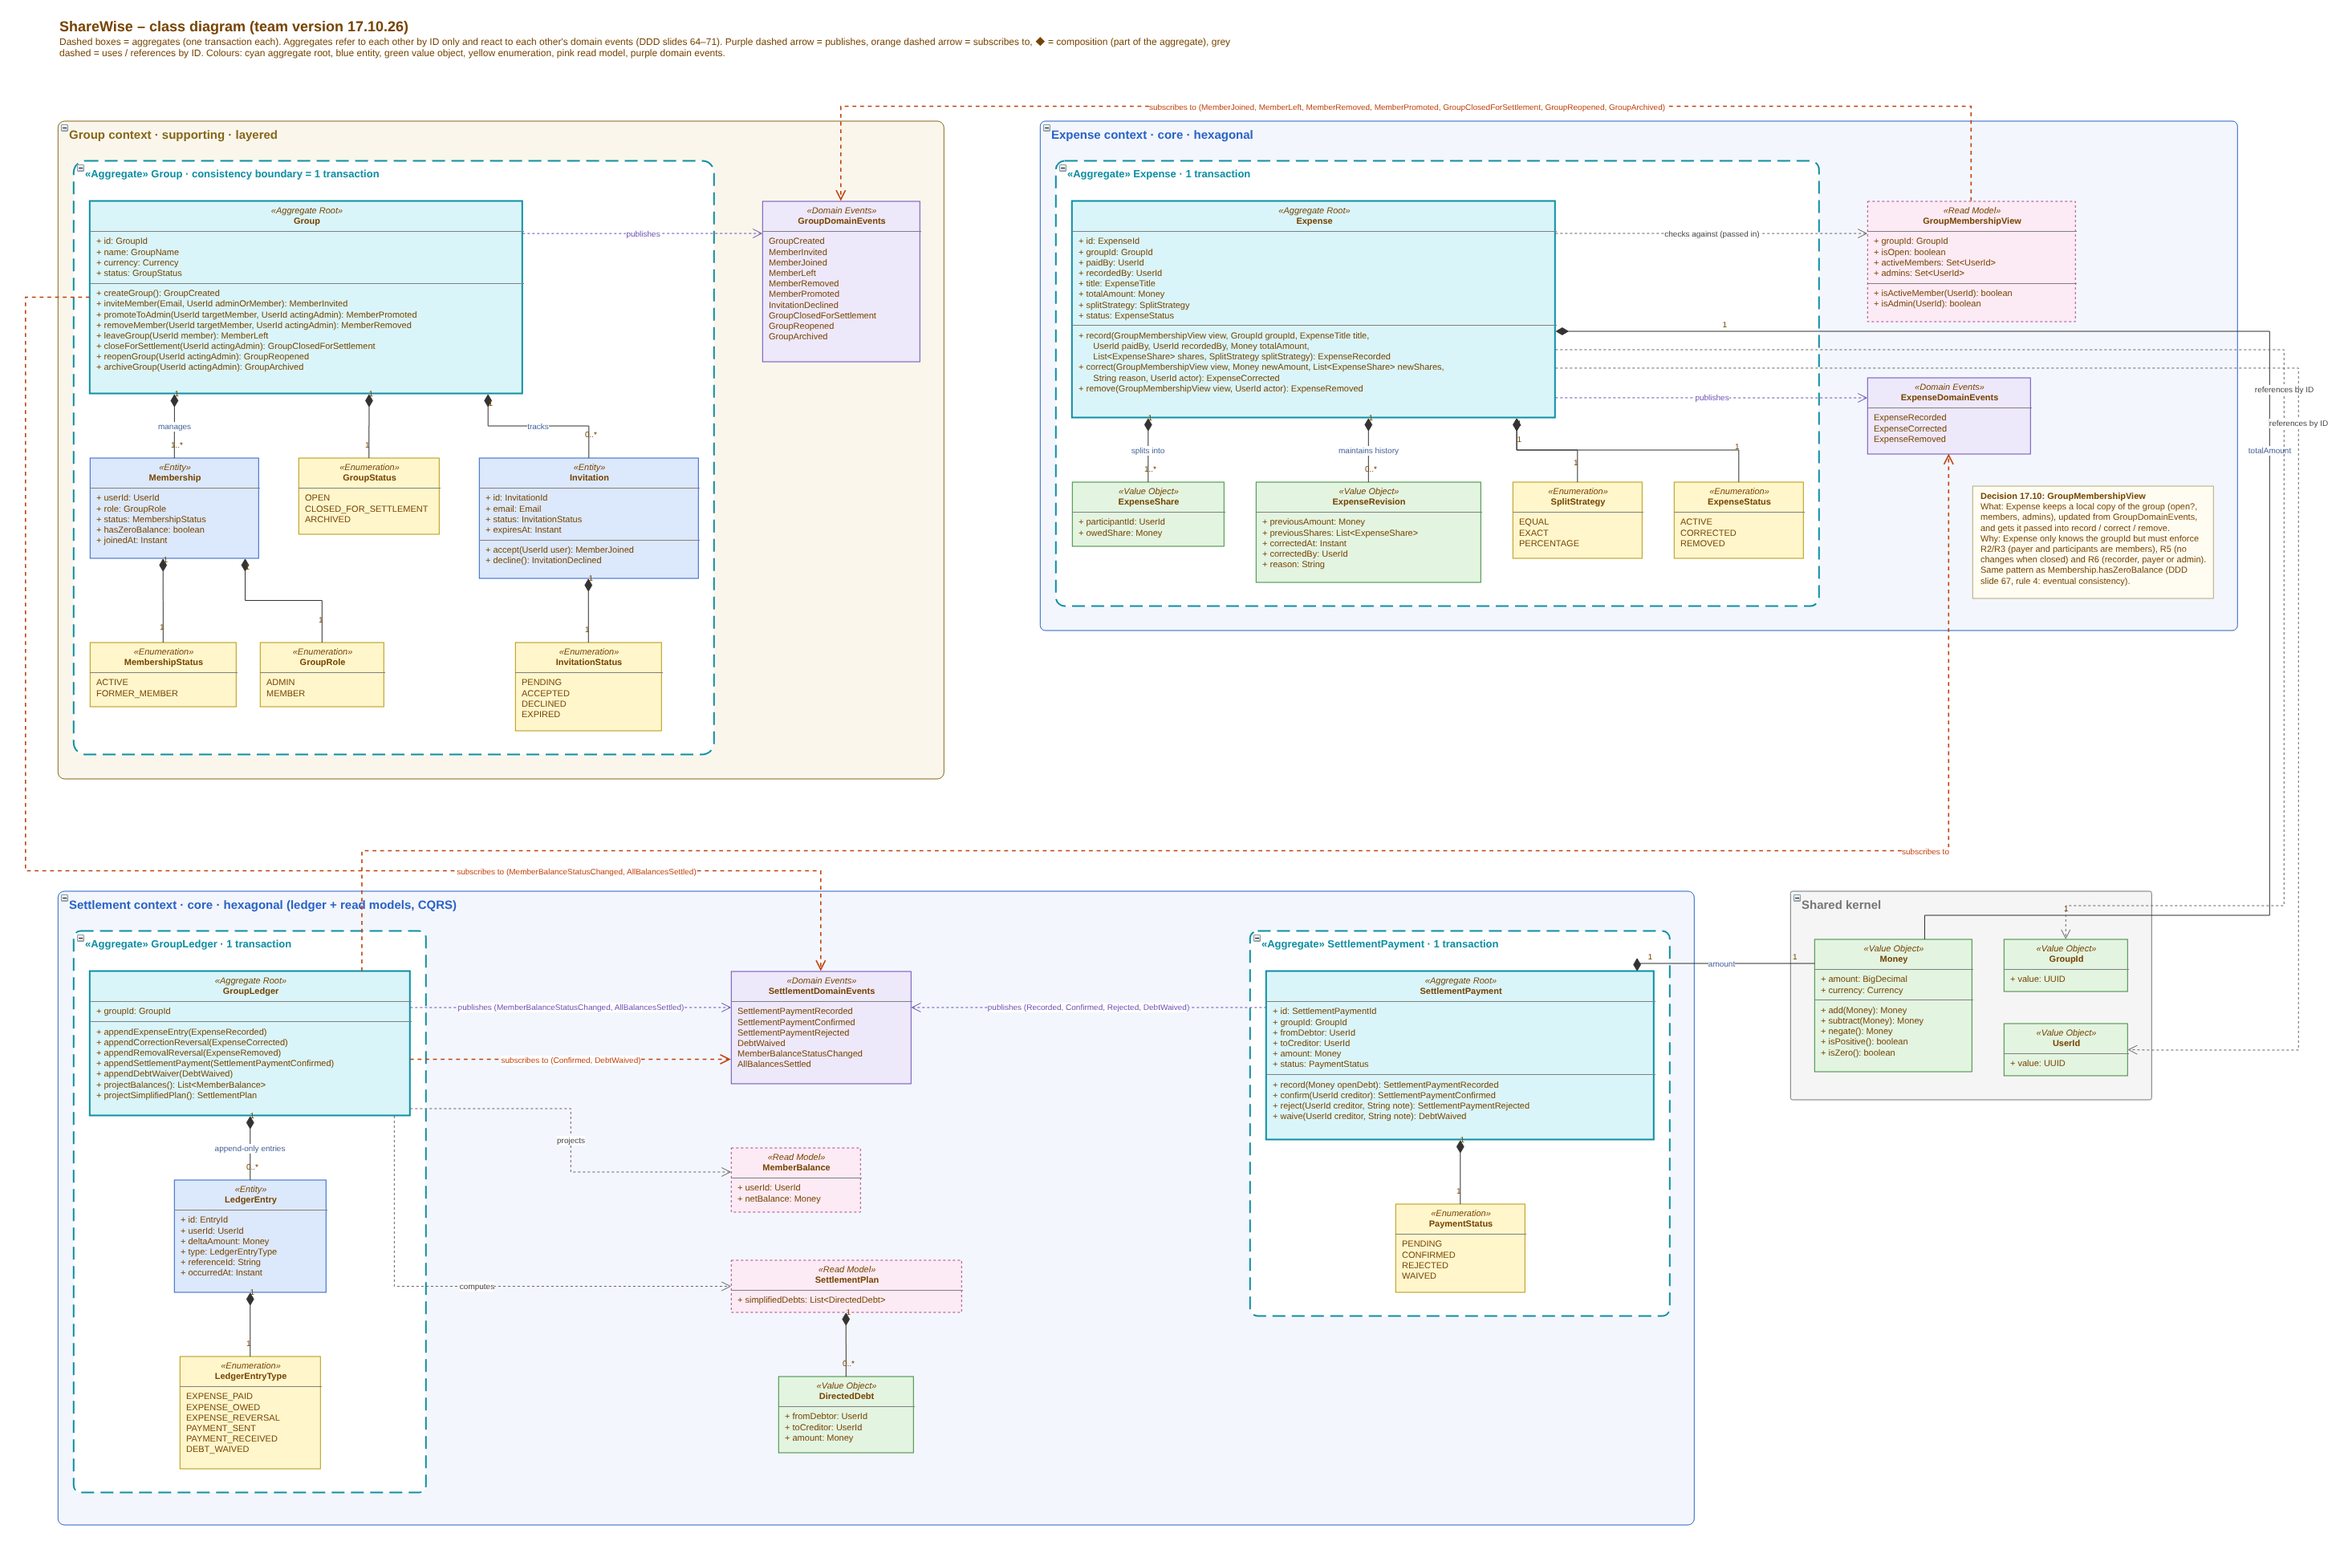
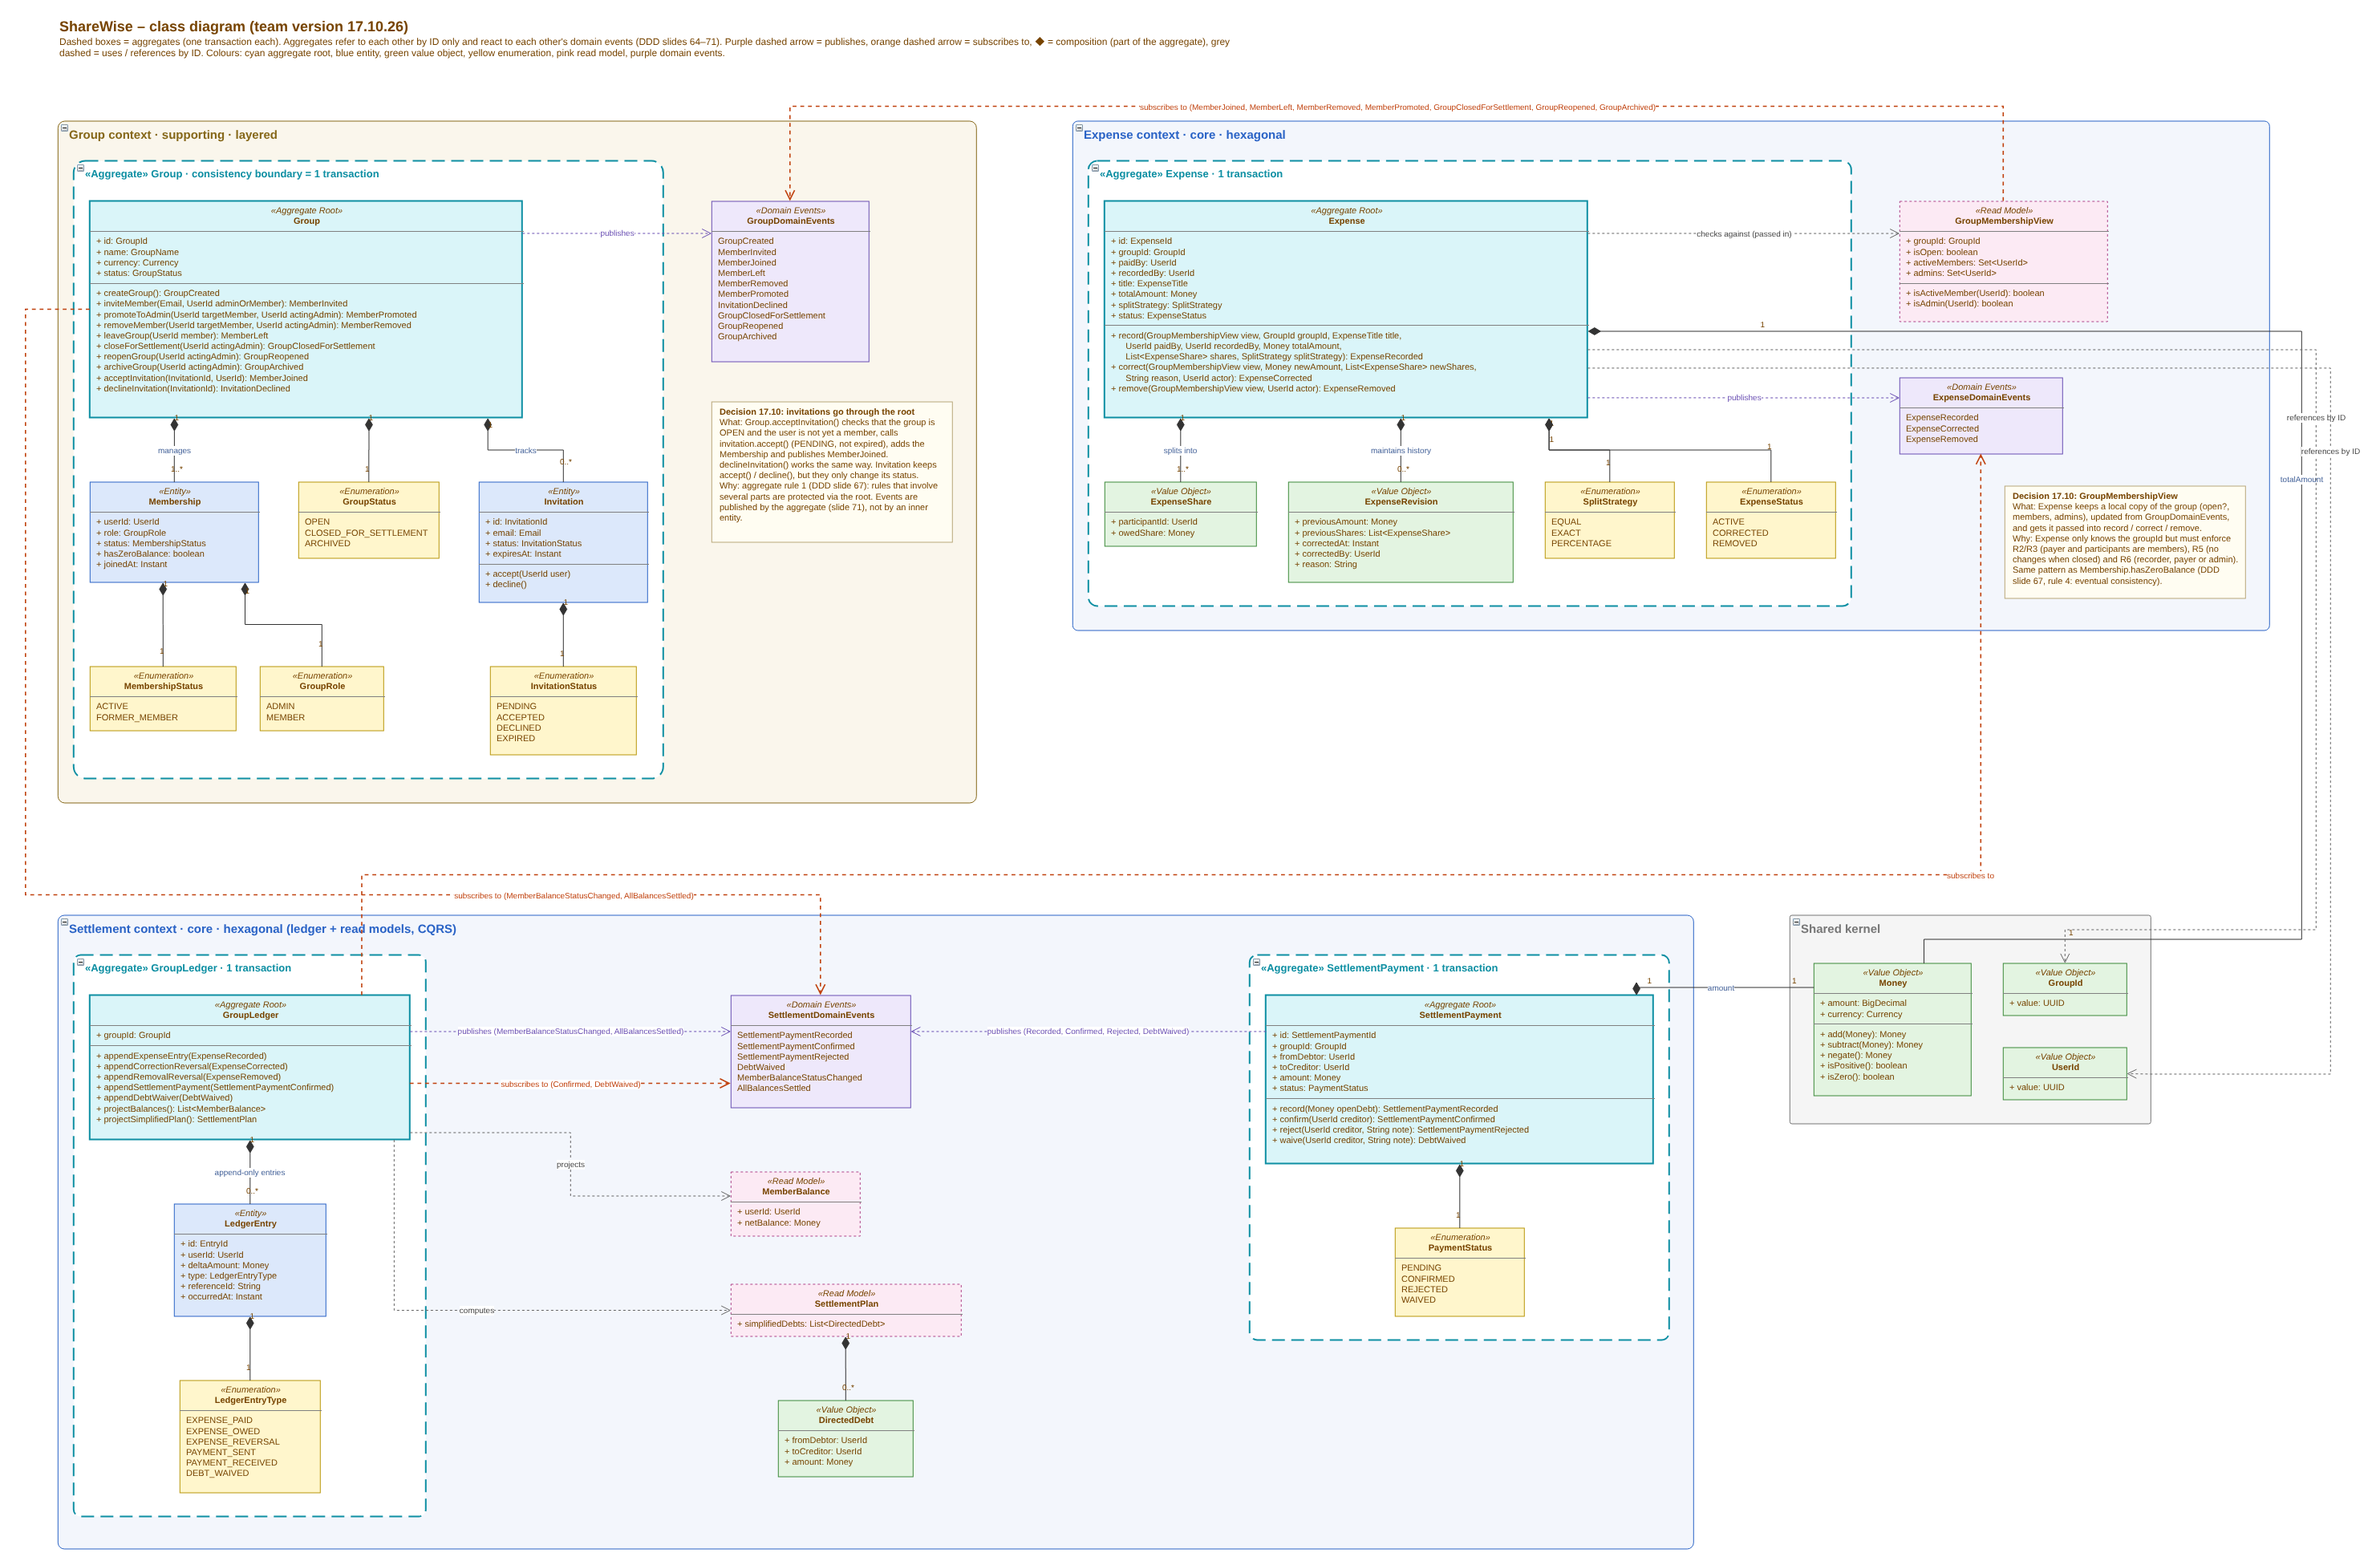
Domain model: invitations are accepted/declined through the root Group
- Group gets acceptInvitation(InvitationId, UserId): MemberJoined and
  declineInvitation(InvitationId): InvitationDeclined; they check group
  status and membership, call the Invitation and publish the event.
- Invitation.accept()/decline() only change its status (no events).
- Decision note in the Group context; team notes and handoff updated.

Claude-Session: https://claude.ai/code/session_01XWcDcA4MpQE7WFgrEA8CzJ

diff --git a/work/tools/gen_team_diagram.py b/work/tools/gen_team_diagram.py
@@ -19,11 +19,13 @@ C = {
                "+ leaveGroup(UserId member): MemberLeft",
                "+ closeForSettlement(UserId actingAdmin): GroupClosedForSettlement",
                "+ reopenGroup(UserId actingAdmin): GroupReopened",
-               "+ archiveGroup(UserId actingAdmin): GroupArchived"]),
+               "+ archiveGroup(UserId actingAdmin): GroupArchived",
+               "+ acceptInvitation(InvitationId, UserId): MemberJoined",
+               "+ declineInvitation(InvitationId): InvitationDeclined"]),
     "Membership": ("entity", ["+ userId: UserId", "+ role: GroupRole", "+ status: MembershipStatus",
                               "+ hasZeroBalance: boolean", "+ joinedAt: Instant"], []),
     "Invitation": ("entity", ["+ id: InvitationId", "+ email: Email", "+ status: InvitationStatus", "+ expiresAt: Instant"],
-                   ["+ accept(UserId user): MemberJoined", "+ decline(): InvitationDeclined"]),
+                   ["+ accept(UserId user)", "+ decline()"]),
     "GroupStatus": ("enum", ["OPEN", "CLOSED_FOR_SETTLEMENT", "ARCHIVED"], []),
     "GroupRole": ("enum", ["ADMIN", "MEMBER"], []),
     "MembershipStatus": ("enum", ["ACTIVE", "FORMER_MEMBER"], []),
@@ -200,9 +202,18 @@ ag_w = max(20 + gw, 20 + mw + GAP + sw + GAP + iw) + 20
 ag_h = r3 + max(msh, size("InvitationStatus")[1]) + 30
 cells[[i for i, c in enumerate(cells) if 'id="AG"' in c][0]] = cells[[i for i, c in enumerate(cells) if 'id="AG"' in c][0]].replace('width="10" height="10"', f'width="{ag_w}" height="{ag_h}"')
 box["AG"] = (box["AG"][0], box["AG"][1], ag_w, ag_h)
-cls("GroupDomainEvents", "G", 20 + ag_w + 60, 100)
-g_w = 20 + ag_w + 60 + size("GroupDomainEvents")[0] + 30
-g_h = 50 + ag_h + 30
+gdw, gdh = cls("GroupDomainEvents", "G", 20 + ag_w + 60, 100)
+# note on the 17.10 decision, below the events box
+GNX, GNY, GNW, GNH = 20 + ag_w + 60, 100 + gdh + 50, 300, 175
+note("noteInvite", "G", GNX, GNY, GNW, GNH,
+     "<b>Decision 17.10: invitations go through the root</b><br/>"
+     "What: Group.acceptInvitation() checks that the group is OPEN and the user is not yet a member, calls "
+     "invitation.accept() (PENDING, not expired), adds the Membership and publishes MemberJoined. "
+     "declineInvitation() works the same way. Invitation keeps accept() / decline(), but they only change its status.<br/>"
+     "Why: aggregate rule 1 (DDD slide 67): rules that involve several parts are protected via the root. "
+     "Events are published by the aggregate (slide 71), not by an inner entity.")
+g_w = max(20 + ag_w + 60 + gdw, GNX + GNW) + 30
+g_h = max(50 + ag_h, GNY + GNH) + 30
 cells[0] = cells[0].replace('width="10" height="10"', f'width="{g_w}" height="{g_h}"')
 box["G"] = (G0[0], G0[1], g_w, g_h)
 

diff --git a/work/Notes_for_Team.md b/work/Notes_for_Team.md
@@ -9,6 +9,11 @@ Team original: `work/archive/firstdraft_ORIGINAL_team_import.drawio`.
 - `InvitationDeclined` added to GroupDomainEvents (it was returned by `decline()` but missing from the list).
 - `DebtForgiven` renamed to **`DebtWaived`**, to match `waive()`, `WAIVED` and `DEBT_WAIVED`.
 - Settlement arrows now name their events, e.g. "publishes (MemberBalanceStatusChanged, AllBalancesSettled)". There is still one SettlementDomainEvents box.
+- **Invitations go through the root Group** (decided 17.10). Rule 1 on DDD slide 67: changes only through the root, and outside code may not call inner entities directly.
+  - New on Group: `acceptInvitation(InvitationId, UserId): MemberJoined` checks that the group is OPEN and the user is not yet a member, calls `invitation.accept()`, adds the Membership and publishes MemberJoined.
+  - New on Group: `declineInvitation(InvitationId): InvitationDeclined`.
+  - Invitation keeps `accept()` / `decline()`, but they now only change its status and no longer return events.
+  - Before, `Invitation.accept()` returned `MemberJoined`, but it could not create the Membership, and Group had no method for joining.
 - Presentation only: a dashed box per aggregate, colours by type, `name: Type` notation, `List<…>` generics.
 
 ## To decide together
@@ -17,12 +22,9 @@ Team original: `work/archive/firstdraft_ORIGINAL_team_import.drawio`.
    - If **no**, an admin archives with `archiveGroup()`, which checks that every member has `hasZeroBalance`. Then Group no longer needs to subscribe to `AllBalancesSettled`.
    - The diagram currently keeps the team version: Group subscribes to AllBalancesSettled.
 2. **`correct()` stays as the team had it** (amount + shares). Our journey J5 in `ShareWise_Requirements.md` also allows correcting the payer, so either we remove "payer" from J5 or we widen `correct()`. The slides only show `correct(newAmount)` (DDD slide 64).
-3. **Invitation and rule 1 ("changes only through the root").** `Invitation.accept()` returns `MemberJoined`, but an inner entity can't add a member to its Group, and Group has no `join()`. Two options:
-   - **A)** Invitation becomes its own aggregate: `accept()` → `InvitationAccepted` → `Group.join()` → `MemberJoined`.
-   - **B)** accept and decline move onto Group: `Group.acceptInvitation(...)` / `Group.declineInvitation(...)`.
-4. **`waive()` / `DebtWaived` is a new feature.** It isn't in the requirements. Keep it (then add it to the requirements and define what waiving means) or drop it for the MVP?
-5. **LedgerEntry: «Entity» or value object?** An entry never changes once written. Be ready for the question "doesn't GroupLedger grow forever?" (aggregate rule 2: small aggregates).
-6. **Small items:**
+3. **`waive()` / `DebtWaived` is a new feature.** It isn't in the requirements. Keep it (then add it to the requirements and define what waiving means) or drop it for the MVP?
+4. **LedgerEntry: «Entity» or value object?** An entry never changes once written. Be ready for the question "doesn't GroupLedger grow forever?" (aggregate rule 2: small aggregates).
+5. **Small items:**
    - `createGroup()` has no parameters (name, currency, creator?).
    - Expense has no `date`.
    - These types are used but never defined: ExpenseTitle, GroupName, Currency, Email, the IDs.

diff --git a/work/HANDOFF_Ex3_Team_Diagram.md b/work/HANDOFF_Ex3_Team_Diagram.md
@@ -27,7 +27,7 @@ Context for a new Claude session. Read this first, then `CLAUDE.md`.
 ## Open points (from the review, ranked) – discuss with the user one at a time
 **Must fix before Tuesday**
 1. ✅ **Decided 17.10 (Expense can't check group rules):** Expense context keeps a «Read Model» `GroupMembershipView` (groupId, isOpen, activeMembers, admins; isActiveMember(), isAdmin()), fed by GroupDomainEvents (MemberJoined/Left/Removed/Promoted, GroupClosedForSettlement, GroupReopened, GroupArchived). It is passed into `Expense.record/correct/remove`, which check R2/R3/R5/R6/R10 against it. Already in `ShareWise_Domain_Model.drawio`.
-2. **Invitation / rule 1 (changes only via the root).** `Invitation.accept()` returns `MemberJoined`, but an inner entity can't add a Membership to its Group. Options: **A)** Invitation becomes its own aggregate (own box like SettlementPayment, holds `groupId`; `accept()` → `InvitationAccepted` → `Group.join()` → `MemberJoined`) – recommended; **B)** keep inside, move to `Group.acceptInvitation(invitationId, userId)` / `Group.declineInvitation(...)`. **This was the question pending when the session ended.** Also: `InvitationDeclined` is missing from GroupDomainEvents.
+2. ✅ **Decided 17.10 (Invitation / rule 1):** option B. Invitation stays inside Group. `Group.acceptInvitation(InvitationId, UserId): MemberJoined` and `Group.declineInvitation(InvitationId): InvitationDeclined` are the entry points, and they call `invitation.accept()/decline()`, which only change its status. `InvitationDeclined` was added to GroupDomainEvents. Already in `ShareWise_Domain_Model.drawio`; see also `work/Notes_for_Team.md`.
 3. **Auto-archive mid-trip.** `AllBalancesSettled` can fire in an OPEN group. Add note/rule: Group archives on it only while `CLOSED_FOR_SETTLEMENT` (L5).
 
 **Should fix**
